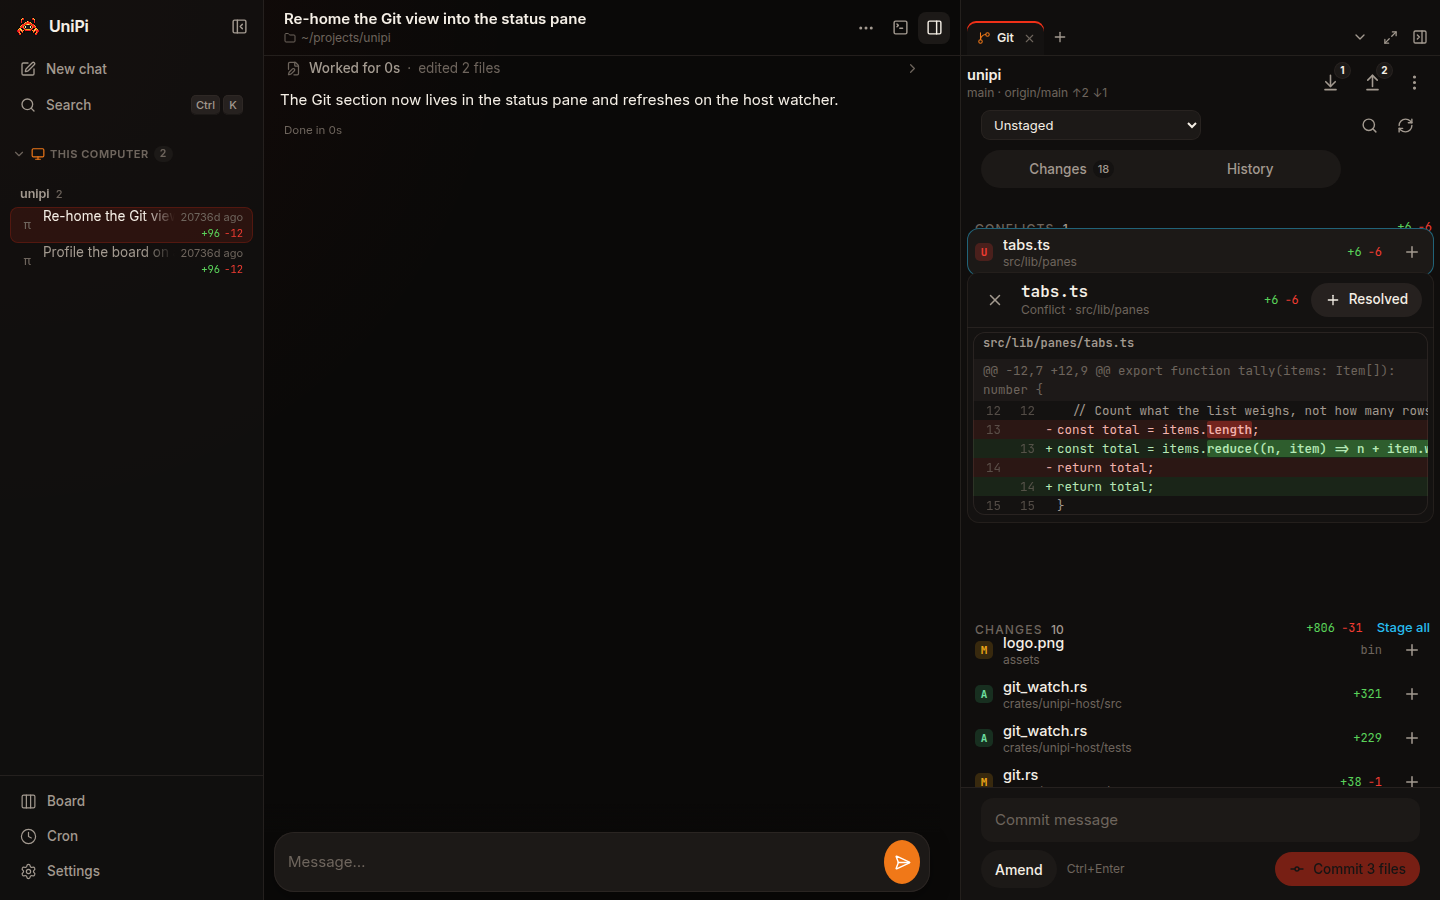
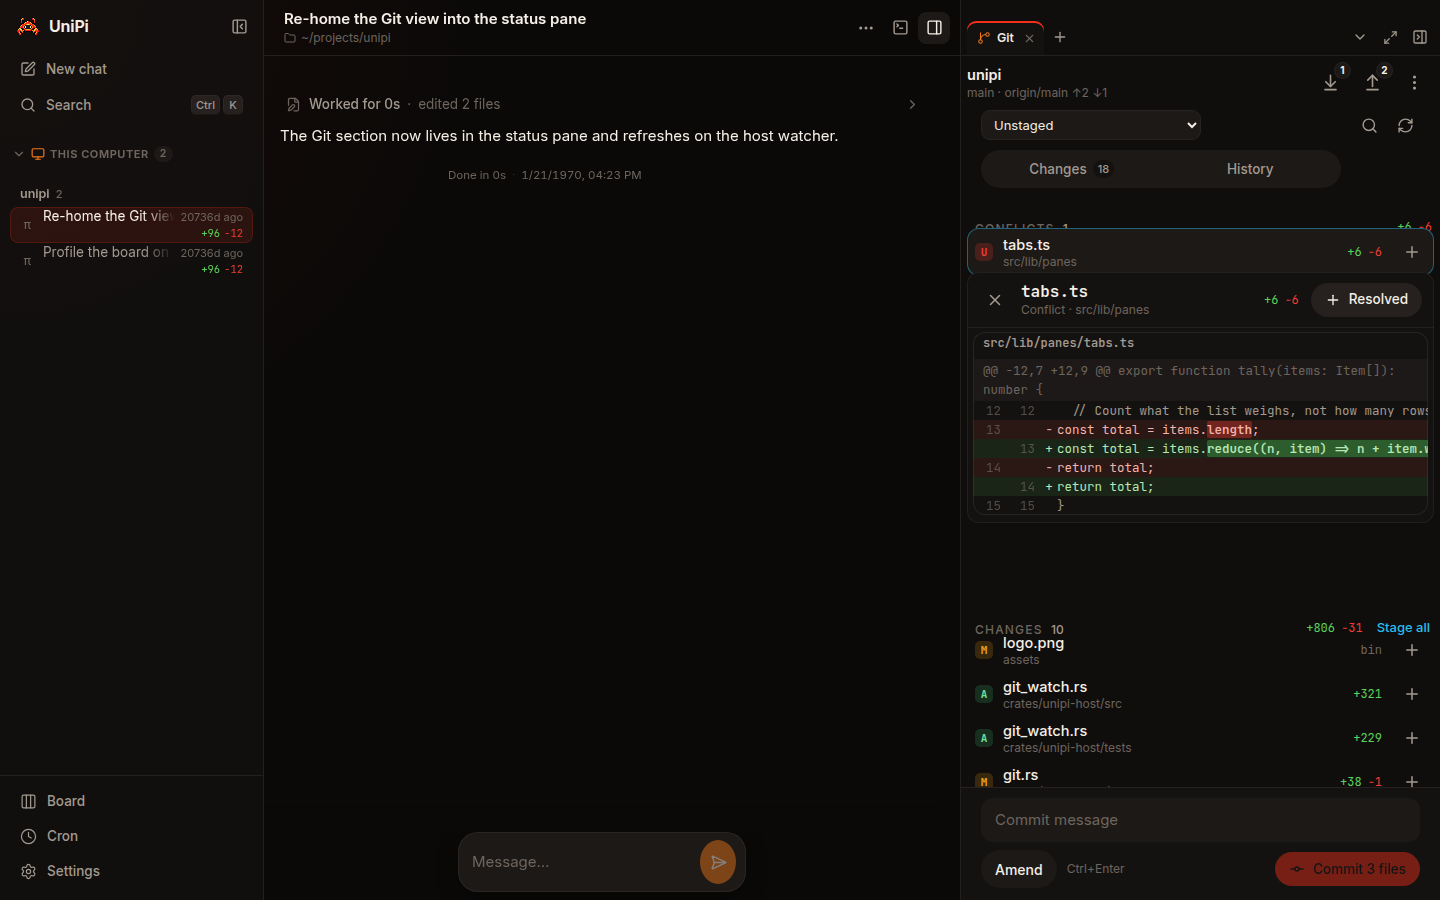
[app-a15] git: measure inline diffs and commit rows, 2000-file capture
The history list's fixed row height clipped commit subjects when ref pills
wrapped; rows and inline diffs are measured by content now (the diff row is
re-measured when its lazy body settles). Adds the 2 000-file capture
(git-pane-many) and refreshes the diff/history shots.

diff --git a/apps/unipi/src/components/git/GitChanges.tsx b/apps/unipi/src/components/git/GitChanges.tsx
@@ -5,7 +5,7 @@
  * expanded inline under its row (lazy per-file diff; the Branch and
  * Last-turn sources pass the row's own diff along).
  */
-import { createEffect, createMemo, on, For, Show, type JSX } from 'solid-js';
+import { createEffect, createMemo, on, onCleanup, For, Show, type JSX } from 'solid-js';
 import { createVirtualizer } from '@tanstack/solid-virtual';
 import { Minus, Plus, RefreshCw } from 'lucide-solid';
 import type { GitDiffData } from '@unipi/protocol';
@@ -41,6 +41,9 @@ export function GitChanges(props: {
   children?: JSX.Element;
 }) {
   let scroll: HTMLDivElement | null = null;
+  /** Inline diff rows by diff key: re-measured when the lazy diff body settles. */
+  const diffRows = new Map<string, HTMLElement>();
+  onCleanup(() => diffRows.clear());
 
   const items = createMemo<Item[]>(() => {
     const out: Item[] = [];
@@ -74,8 +77,13 @@ export function GitChanges(props: {
     },
   });
 
-  /** A diff body grew after its lazy fetch: re-measure the rows below it. */
-  const remeasure = () => requestAnimationFrame(() => virtualizer.measure());
+  /** A diff body grew after its lazy fetch: re-measure that row (not the list,
+   *  which would fall back to the 320 px estimate and leave a gap). */
+  const remeasure = (key: string) =>
+    requestAnimationFrame(() => {
+      const el = diffRows.get(key);
+      if (el) virtualizer.measureElement(el);
+    });
 
   // Follow the keyboard selection (↑/↓): centre the row in the window.
   createEffect(
@@ -134,7 +142,14 @@ export function GitChanges(props: {
                   }
                   if (it.t === 'diff') {
                     return (
-                      <div class="git-vrow git-inline-diff" ref={rowRef} data-index={v.index}>
+                      <div
+                        class="git-vrow git-inline-diff"
+                        ref={(el) => {
+                          diffRows.set(it.key, el);
+                          rowRef(el);
+                        }}
+                        data-index={v.index}
+                      >
                         <GitDiffDetail
                           hostId={props.hostId}
                           repo={props.repo}
@@ -142,7 +157,7 @@ export function GitChanges(props: {
                           tick={props.tick}
                           preloaded={props.preloaded?.(it.row.diffKey)}
                           areaLabel={props.preloaded?.(it.row.diffKey) ? props.sourceLabel : undefined}
-                          onSettled={remeasure}
+                          onSettled={() => remeasure(it.key)}
                           inline
                           onClose={() => props.onExpand(undefined)}
                           onToggle={props.canStage ? () => props.onToggleStage(it.row.change) : undefined}

diff --git a/apps/unipi/src/components/git/GitHistory.tsx b/apps/unipi/src/components/git/GitHistory.tsx
@@ -3,7 +3,7 @@
  * `git log` list with ref pills, virtualized like the changes list, paged
  * 50 at a time ("Load more"). No commit graph (Z-99: skipped).
  */
-import { createMemo, For, Show, type JSX } from 'solid-js';
+import { For, Show, type JSX } from 'solid-js';
 import { createVirtualizer } from '@tanstack/solid-virtual';
 import { GitCommitHorizontal } from 'lucide-solid';
 import { refPills, relativeTime, type GitCommitInfo } from '../../lib/git';
@@ -28,7 +28,6 @@ export function GitHistory(props: {
     estimateSize: () => (desktopShell() ? 56 : 64),
     overscan: 10,
   });
-  const rowHeight = createMemo(() => (desktopShell() ? 56 : 64));
   return (
     <div
       class="git-list-scroll git-virtual"
@@ -50,9 +49,9 @@ export function GitHistory(props: {
                   <div
                     ref={(el: HTMLElement) => {
                       el.style.transform = `translateY(${v.start}px)`;
-                      el.style.height = `${rowHeight()}px`;
                       virtualizer.measureElement(el);
                     }}
+                    data-index={v.index}
                     class="git-commit-row git-vrow"
                     data-testid="git-commit-row"
                     data-git-commit={commit.hash}
